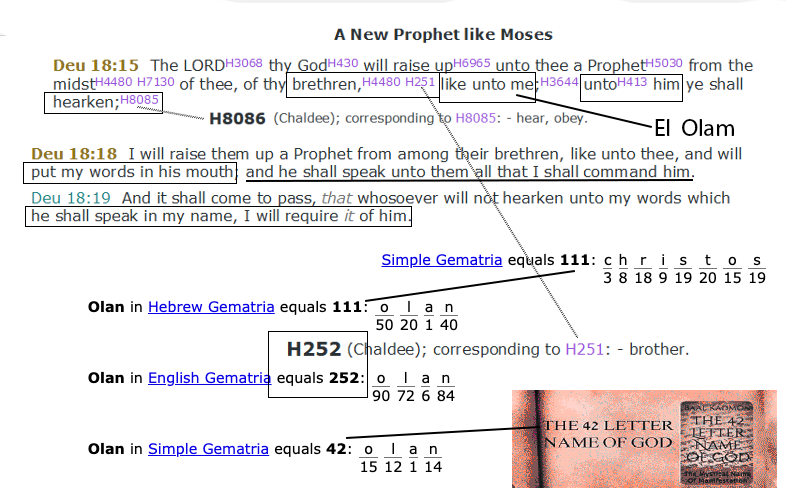
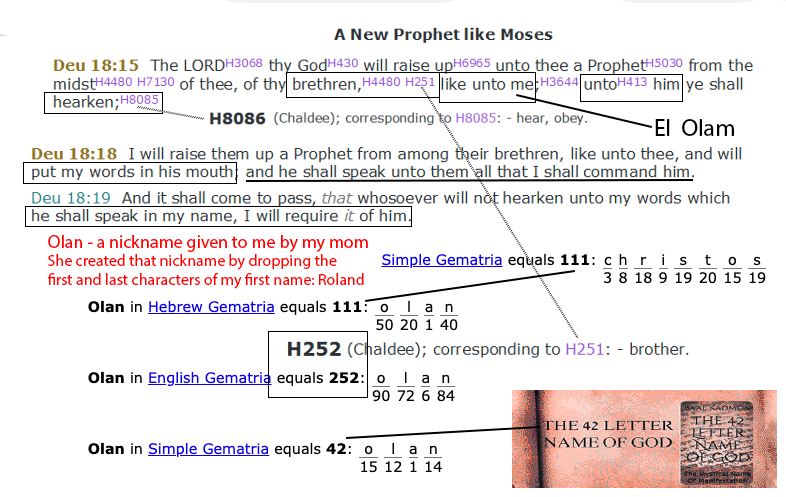
ref

Changed region(s): [[0.0611, 0.4527, 0.4885, 0.5734]]

diff --git a/src/test/java/com/codified/esword/dao/SignatureOfThisProjectTest.java b/src/test/java/com/codified/esword/dao/SignatureOfThisProjectTest.java
@@ -199,23 +199,29 @@ public class SignatureOfThisProjectTest {
         //   WordMatchesTest.testWordMatchesBible_23_Matches_Test
         // ) 
         //
+
+        String name = "Roland Resurreccion San Luis";
+        // https://www.gematrix.org/?word=Roland+Resurreccion+San+Luis
+        int hebrewGematriaValue = BibleUtils.getHebrewGematriaValue(name);
+        log.info("hebrew gematria value for {}: {}", name, hebrewGematriaValue);
+        assertTrue(hebrewGematriaValue == 1290);
+
         // 1290, as this is the number of God's prophetic timeline.
         // 1290 / 30 = 43   (4 + 3) = 7  # for God
         // 1260 / 30 = 42   (4 + 2) = 6  # for Man
 
         // Yes, that man, that ravenous bird that executes my God's advice from a far country is me.
         // Roland Resurreccion San Luis (equals 1290 in Gematria)
+        // 
+        // Olan is a childhood nickname I had while growing up and is never used while living in the U.S.
+        // I always hear that name again when I visit my parents in the Philippines.
+        //
+        // My mom derived that name by dropping the first and last letters of my first name. 
+        // She would usually repeat that name twice like a lot of names in the Philippines.
+        //
+        // God also knows my nickname since he's an all knowing God
+        // https://github.com/rsanluis/esword-cli/blob/main/images/my_signature/a_new_prophet_like_moses/a_new_prophet_like_moses.png
     }
-
-    @Test
-    void testDerivedMatch_1290_Test() {
-        String name = "Roland Resurreccion San Luis";
-        // https://www.gematrix.org/?word=Roland+Resurreccion+San+Luis
-        int hebrewGematriaValue = BibleUtils.getHebrewGematriaValue(name);
-        log.info("hebrew gematria value for {}: {}", name, hebrewGematriaValue);
-        assertTrue(hebrewGematriaValue == 1290);
-    }
-
     
     /* 
      * Further expanding the Biblical code found in the Bible, is the
